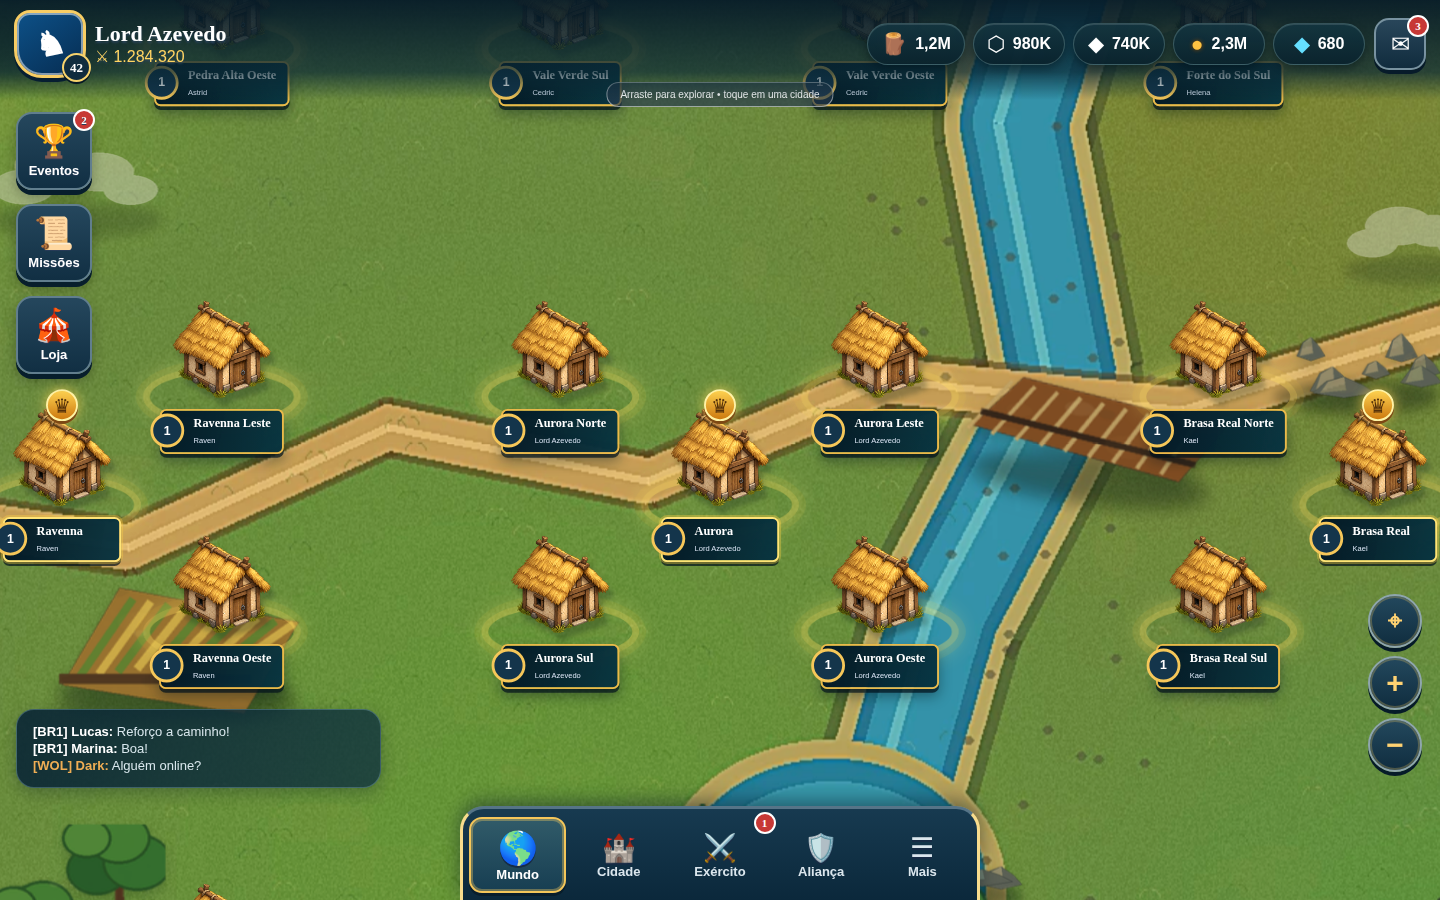
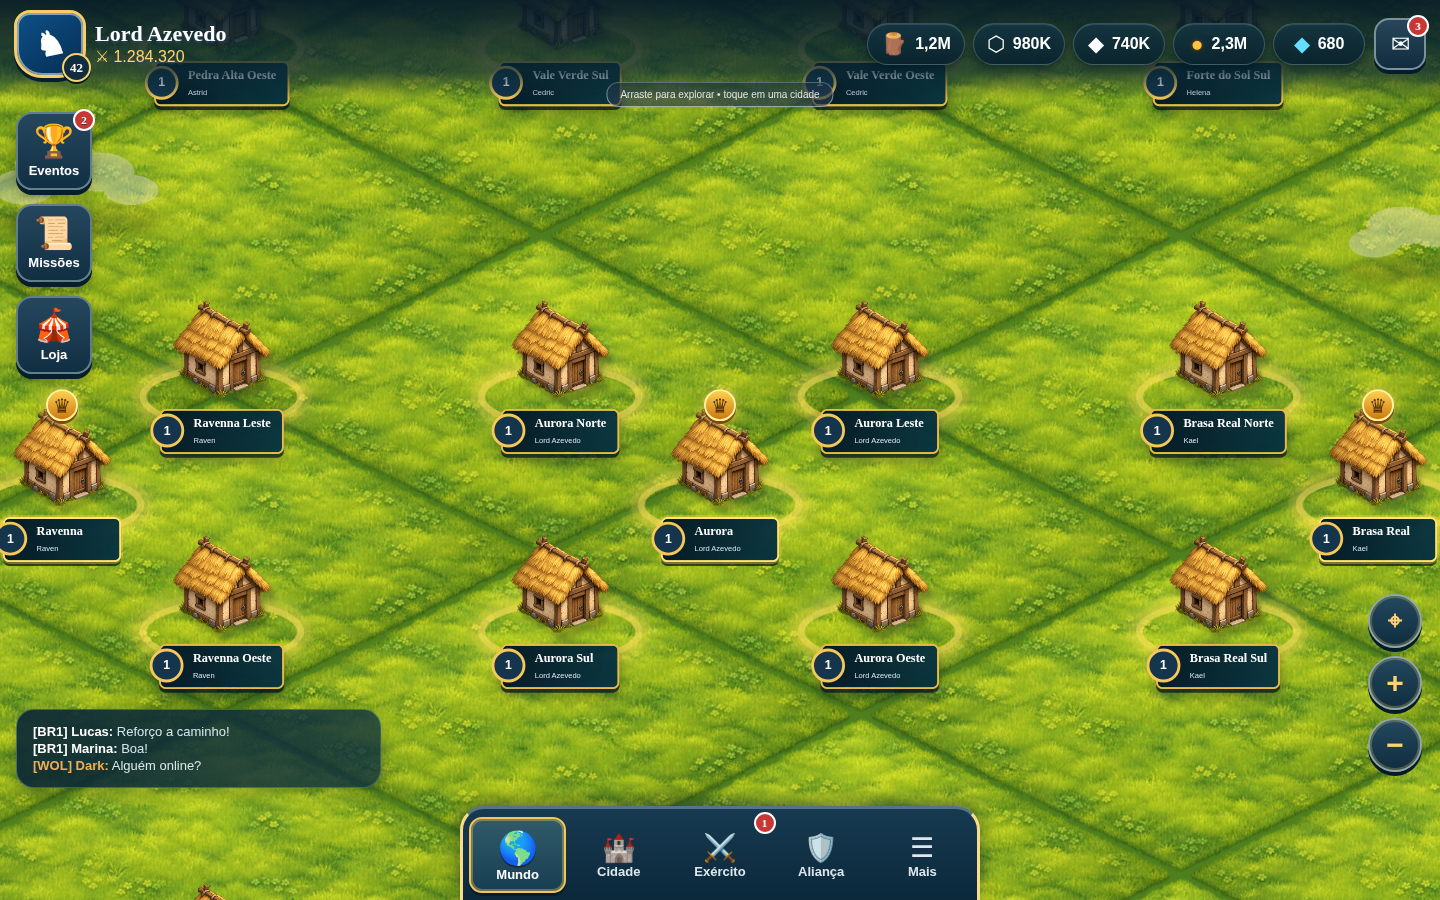
Monta terreno dinâmico com tiles de grama

diff --git a/styles.css b/styles.css
@@ -60,13 +60,9 @@ dialog{color:var(--ink);font-family:"Nunito",sans-serif}.attack-dialog,.battle-r
 @media (max-width:900px){.top-hud{padding-right:10px}.player-summary{min-width:130px}.player-summary strong{font-size:17px}.player-summary span{font-size:12px}.resource{min-width:70px;padding:0 8px;font-size:12px}.resource.metal,.resource.coins{display:none}.alliance-chat{width:330px}}
 @media (max-width:600px){.top-hud{gap:5px;padding:8px}.avatar{width:52px;height:52px}.avatar .wolf-mark{font-size:25px}.avatar i{width:24px;height:24px;font-size:10px}.player-summary{display:none}.resources{gap:3px}.resource{height:34px;min-width:0;padding:0 7px;font-size:10px}.resource span{font-size:15px}.round-button{width:40px;height:40px}.side-actions{top:88px;left:8px;gap:10px}.action-button{width:59px;min-height:61px;padding:5px 2px}.action-button span{font-size:24px;line-height:28px}.action-button b{font-size:9px}.zoom-controls{right:9px;bottom:108px}.zoom-controls button{width:42px;height:42px;font-size:24px}.alliance-chat{display:none}.bottom-nav{height:83px}.bottom-nav b{font-size:9px}.city-panel{right:10px;bottom:98px;width:calc(100% - 20px)}}
 
-/* Painted pilot region: CSS only composes raster artwork and interactive state. */
-.terrain{position:absolute;inset:0;overflow:hidden;background:#687f43 url("assets/map/painted/terrain_pilot.webp") center/100% 100% no-repeat;filter:saturate(1.04) contrast(1.02)}
-.map-layer{position:absolute;inset:0;pointer-events:none}.details{z-index:2}.forests{z-index:3}.ranges{z-index:4}
-.asset{position:absolute;display:block;height:auto;filter:drop-shadow(0 8px 6px rgba(27,43,26,.2))}
-.farm-one{left:20%;top:53%;width:13%}.rocks-one{left:55%;top:65%;width:9%}.rocks-two{left:73%;top:41%;width:9%}.bridge{left:59.8%;top:42.5%;width:13%;transform:rotate(7deg)}
-.pine-one{left:4%;top:17%;width:22%}.pine-two{left:70%;top:13%;width:21%}.mixed-one{left:7%;top:67%;width:19%}.mixed-two{left:42%;top:66%;width:22%}
-.range-main{left:20%;top:5%;width:31%}.range-snow{left:68%;top:68%;width:29%}
+/* Dynamic terrain: isometric grass tiles expand with the generated world. */
+.terrain{position:absolute;inset:0;overflow:hidden;background:#507f25;filter:saturate(1.04) contrast(1.02)}
+.terrain-grid{position:absolute;inset:0;z-index:1;overflow:hidden;pointer-events:none}.terrain-grid img{position:absolute;display:block;max-width:none;user-select:none}
 .clouds{position:absolute;inset:0;z-index:2;overflow:hidden;pointer-events:none}.clouds img{position:absolute;width:220px;opacity:.56;filter:blur(.3px);animation:cloud-drift 22s ease-in-out infinite alternate}.clouds img:first-child{top:11%;left:-35px}.clouds img:last-child{top:19%;right:-45px;width:180px;animation-delay:-9s}@keyframes cloud-drift{to{transform:translateX(42px)}}
 .city{z-index:6;width:190px;height:184px}.castle-art{position:absolute;top:-6px;left:0;width:100%;height:auto;filter:drop-shadow(5px 8px 3px rgba(24,39,25,.3));pointer-events:none}.city-label{top:142px;min-width:126px}.city-label strong{font-size:13px}.city-label small{font-size:8px}
 .capital-mark{position:absolute;z-index:9;top:6px;left:50%;display:grid;width:34px;height:34px;border:2px solid #fff1a7;border-radius:50%;background:linear-gradient(#f9cf55,#c97a16);box-shadow:0 3px 0 #7b4918,0 0 14px rgba(255,218,91,.75);color:#53320e;font-size:21px;line-height:1;place-items:center;transform:translateX(-50%);pointer-events:none}.city.capital .city-label{border-color:#ffe27b;box-shadow:0 0 0 2px rgba(255,212,77,.35),0 4px 0 rgba(4,19,28,.7)}

diff --git a/world-state.js b/world-state.js
@@ -12,6 +12,7 @@
   const CLUSTER_HEIGHT = 620;
   const MAP_PADDING = 360;
   const MINIMUM_COLUMNS = 3;
+  const TERRAIN_TILE = Object.freeze({ asset: 'assets/map/terrain/terrain_grass_01.png', width: 720, height: 360, horizontalStep: 680, verticalStep: 170 });
 
   const BOT_PROFILES = Object.freeze([
     { id: 'bot-north', name: 'Astrid', alliance: 'Clã do Norte', tone: 'red' },
@@ -55,6 +56,27 @@
 
   function percent(value, total) {
     return Number(((value / total) * 100).toFixed(3));
+  }
+
+  function createTerrainTiles(dimensions, tile = TERRAIN_TILE) {
+    const rows = Math.ceil(dimensions.height / tile.verticalStep) + 2;
+    const columns = Math.ceil(dimensions.width / tile.horizontalStep) + 2;
+    const tiles = [];
+
+    for (let row = 0; row < rows; row += 1) {
+      const offsetX = row % 2 === 0 ? 0 : -(tile.horizontalStep / 2);
+      for (let column = -1; column < columns; column += 1) {
+        tiles.push({
+          id: `terrain-${row}-${column + 1}`,
+          asset: tile.asset,
+          x: offsetX + (column * tile.horizontalStep),
+          y: (row * tile.verticalStep) - tile.verticalStep,
+          width: tile.width,
+          height: tile.height
+        });
+      }
+    }
+    return tiles;
   }
 
   function createOwnedCities(players, dimensions) {
@@ -133,7 +155,8 @@
     const players = createPlayers(botCount);
     const dimensions = mapDimensions(players.length);
     const cities = [...createOwnedCities(players, dimensions), ...createNeutralCities(players.length, dimensions)];
-    return { players, cities, dimensions };
+    const terrain = { type: 'grass', tiles: createTerrainTiles(dimensions) };
+    return { players, cities, dimensions, terrain };
   }
 
   function moveCapital(cities, playerId, destinationId) {
@@ -150,8 +173,10 @@
     STARTING_CITIES_PER_PLAYER,
     DEFAULT_BOT_COUNT,
     NEUTRAL_CITIES_PER_PLAYER,
+    TERRAIN_TILE,
     createPlayers,
     mapDimensions,
+    createTerrainTiles,
     createInitialWorld,
     moveCapital
   });

diff --git a/index.html b/index.html
@@ -16,22 +16,7 @@
       <div class="clouds" aria-hidden="true"><img src="assets/map/painted/cloud_01.webp" alt=""><img src="assets/map/painted/cloud_02.webp" alt=""></div>
       <div class="world" id="world">
         <div class="terrain">
-          <div class="map-layer details" aria-hidden="true">
-            <img class="asset farm-one" src="assets/map/painted/farm_01.webp" alt="">
-            <img class="asset rocks-one" src="assets/map/painted/rocks_01.webp" alt="">
-            <img class="asset rocks-two" src="assets/map/painted/rocks_02.webp" alt="">
-            <img class="asset bridge" src="assets/map/painted/bridge_wood.webp" alt="">
-          </div>
-          <div class="map-layer forests" aria-hidden="true">
-            <img class="asset pine-one" src="assets/map/painted/pine_cluster_01.webp" alt="">
-            <img class="asset pine-two" src="assets/map/painted/pine_cluster_03.webp" alt="">
-            <img class="asset mixed-one" src="assets/map/painted/mixed_forest_01.webp" alt="">
-            <img class="asset mixed-two" src="assets/map/painted/mixed_forest_02.webp" alt="">
-          </div>
-          <div class="map-layer ranges" aria-hidden="true">
-            <img class="asset range-main" src="assets/map/painted/mountain_cluster_03.webp" alt="">
-            <img class="asset range-snow" src="assets/map/painted/snowy_mountains_02.webp" alt="">
-          </div>
+          <div class="terrain-grid" id="terrain-tiles" aria-hidden="true"></div>
           <div id="cities"></div>
           <div id="marches"></div>
         </div>

diff --git a/tests/world-state.test.js b/tests/world-state.test.js
@@ -4,6 +4,8 @@ const {
   DEFAULT_BOT_COUNT,
   PLAYER_ID,
   STARTING_CITIES_PER_PLAYER,
+  TERRAIN_TILE,
+  createTerrainTiles,
   createInitialWorld,
   moveCapital
 } = require('../world-state.js');
@@ -35,6 +37,20 @@ test('expande o mapa quando novos participantes entram', () => {
   assert.ok(expanded.dimensions.width > initial.dimensions.width);
   assert.ok(expanded.dimensions.height > initial.dimensions.height);
   assert.equal(expanded.cities.filter(({ ownerId }) => ownerId !== null).length, 21 * STARTING_CITIES_PER_PLAYER);
+});
+
+test('monta a base do mapa com uma malha expansível do terreno de grama', () => {
+  const initial = createInitialWorld({ botCount: 6 });
+  const expanded = createInitialWorld({ botCount: 20 });
+  assert.ok(initial.terrain.tiles.length > 0);
+  assert.ok(expanded.terrain.tiles.length > initial.terrain.tiles.length);
+  assert.equal(initial.terrain.tiles.every(({ asset }) => asset === TERRAIN_TILE.asset), true);
+
+  const custom = createTerrainTiles({ width: 1_600, height: 1_200 });
+  assert.ok(Math.max(...custom.map(({ x, width }) => x + width)) >= 1_600);
+  assert.ok(Math.max(...custom.map(({ y, height }) => y + height)) >= 1_200);
+  assert.ok(Math.min(...custom.map(({ x }) => x)) <= 0);
+  assert.ok(Math.min(...custom.map(({ y }) => y)) <= 0);
 });
 
 test('transfere o centro somente para outra cidade do proprietário', () => {

diff --git a/script.js b/script.js
@@ -7,6 +7,7 @@ const world = document.querySelector('#world');
 const viewport = document.querySelector('#world-viewport');
 const cityLayer = document.querySelector('#cities');
 const marchLayer = document.querySelector('#marches');
+const terrainLayer = document.querySelector('#terrain-tiles');
 const panel = document.querySelector('#city-panel');
 const toast = document.querySelector('#toast');
 const hint = document.querySelector('#map-hint');
@@ -14,6 +15,7 @@ const attackDialog = document.querySelector('#attack-dialog');
 const reportDialog = document.querySelector('#battle-report');
 world.style.setProperty('--world-width', `${gameWorld.dimensions.width}px`);
 world.style.setProperty('--world-height', `${gameWorld.dimensions.height}px`);
+terrainLayer.innerHTML = gameWorld.terrain.tiles.map((tile) => `<img src="${tile.asset}" alt="" style="left:${tile.x}px;top:${tile.y}px;width:${tile.width}px;height:${tile.height}px">`).join('');
 
 const initialView = () => ({
   x: 0,

diff --git a/tools/generate_map_assets.py b/tools/generate_map_assets.py
@@ -5,7 +5,6 @@ sprite has a soft, painted edge while remaining lightweight in the browser.
 """
 
 from pathlib import Path
-import math
 import random
 
 from PIL import Image, ImageChops, ImageDraw, ImageEnhance, ImageFilter
@@ -207,48 +206,6 @@ def army(name,color):
     finish(im,name)
 
 
-def terrain_base():
-    rng=random.Random(8421); w,h=1600,1200
-    im=Image.new("RGB",(w,h),(108,137,67)); px=im.load()
-    # broad blended color fields plus fine painted grain
-    fields=[(220,220,330,(19,28,-8)),(650,850,420,(-4,13,-8)),(1170,340,390,(19,-4,-12)),(1320,980,360,(-16,12,-2))]
-    for y in range(h):
-        for x in range(w):
-            rr,gg,bb=108,137,67
-            for fx,fy,rad,delta in fields:
-                power=max(0,1-math.hypot(x-fx,y-fy)/rad)
-                rr+=delta[0]*power; gg+=delta[1]*power; bb+=delta[2]*power
-            grain=rng.randint(-5,5)
-            px[x,y]=(int(rr+grain),int(gg+grain),int(bb+grain))
-    d=ImageDraw.Draw(im,"RGBA")
-    # dry meadows and worn earth glazes
-    for _ in range(170):
-        x,y=rng.randrange(w),rng.randrange(h); rx,ry=rng.randint(10,55),rng.randint(4,20)
-        d.ellipse((x-rx,y-ry,x+rx,y+ry),fill=(173,154,79,rng.randint(4,18)))
-    # integrated river with earthen banks, irregular width and highlights
-    river=[(1060,-40),(1018,105),(1056,250),(1002,400),(1037,550),(955,680),(907,820),(944,955),(869,1240)]
-    d.line(river,fill=(71,77,48,125),width=112,joint="curve")
-    d.line(river,fill=(181,165,99,255),width=96,joint="curve")
-    d.line(river,fill=(42,117,141,255),width=74,joint="curve")
-    d.line(river,fill=(55,145,166,255),width=55,joint="curve")
-    d.line([(x-10,y) for x,y in river],fill=(123,197,196,170),width=7,joint="curve")
-    # lake
-    d.ellipse((755,755,997,925),fill=(179,161,94,255)); d.ellipse((770,766,983,910),fill=(41,125,148,255)); d.ellipse((787,779,969,892),fill=(61,151,168,255))
-    # road behind the assets
-    road=[(-30,665),(200,620),(390,644),(570,575),(750,606),(915,548),(1120,565),(1370,500),(1640,524)]
-    d.line(road,fill=(103,78,43,150),width=35,joint="curve"); d.line(road,fill=(195,157,91,255),width=27,joint="curve"); d.line(road,fill=(232,197,126,160),width=5,joint="curve")
-    # grass marks, pebbles and reeds concentrated by regions
-    for _ in range(820):
-        x,y=rng.randrange(w),rng.randrange(h); col=rng.choice([(48,91,47,65),(207,187,100,55),(69,113,47,75)])
-        if 970<x<1095: continue
-        d.arc((x-6,y-2,x+2,y+8),185,280,fill=col,width=1); d.arc((x,y-2,x+8,y+8),260,355,fill=col,width=1)
-    for _ in range(95):
-        x=rng.randint(900,1100); y=rng.randint(30,1160)
-        d.ellipse((x-3,y-2,x+4,y+2),fill=(85,82,63,125))
-    im=im.filter(ImageFilter.GaussianBlur(.35)).filter(ImageFilter.UnsharpMask(1.4,120,2))
-    im.save(OUT/"terrain_pilot.webp","WEBP",quality=92,method=6)
-
-
 def main():
     OUT.mkdir(parents=True,exist_ok=True)
     for i in range(1,4): mountain(f"mountain_cluster_0{i}",100+i,wide=360+i*18,high=230+i*5)
@@ -266,7 +223,6 @@ def main():
     decoration("bridge_wood","bridge",741); decoration("bridge_stone","bridge",742)
     decoration("cloud_01","cloud",751); decoration("cloud_02","cloud",752)
     army("army_blue","blue"); army("army_red","red")
-    terrain_base()
 
 
 if __name__ == "__main__":

diff --git a/assets/map/painted/README.md b/assets/map/painted/README.md
@@ -5,8 +5,9 @@ de cenário são WebP rasterizados, compartilham perspectiva elevada 3/4, contor
 suave, luz superior esquerda e sombra projetada para a direita.
 
 O kit inclui cinco cordilheiras, seis agrupamentos de floresta, sete cidades,
-treze elementos de decoração e dois exércitos. `terrain_pilot.webp` reúne a base
-de grama pintada, manchas de terra, estrada, lago e rio com margens integradas.
+treze elementos de decoração e dois exércitos. A base do mundo não faz mais
+parte deste kit: ela é montada dinamicamente com os tiles raster disponíveis em
+`assets/map/terrain/`.
 
 Os arquivos são reproduzíveis com:
 
